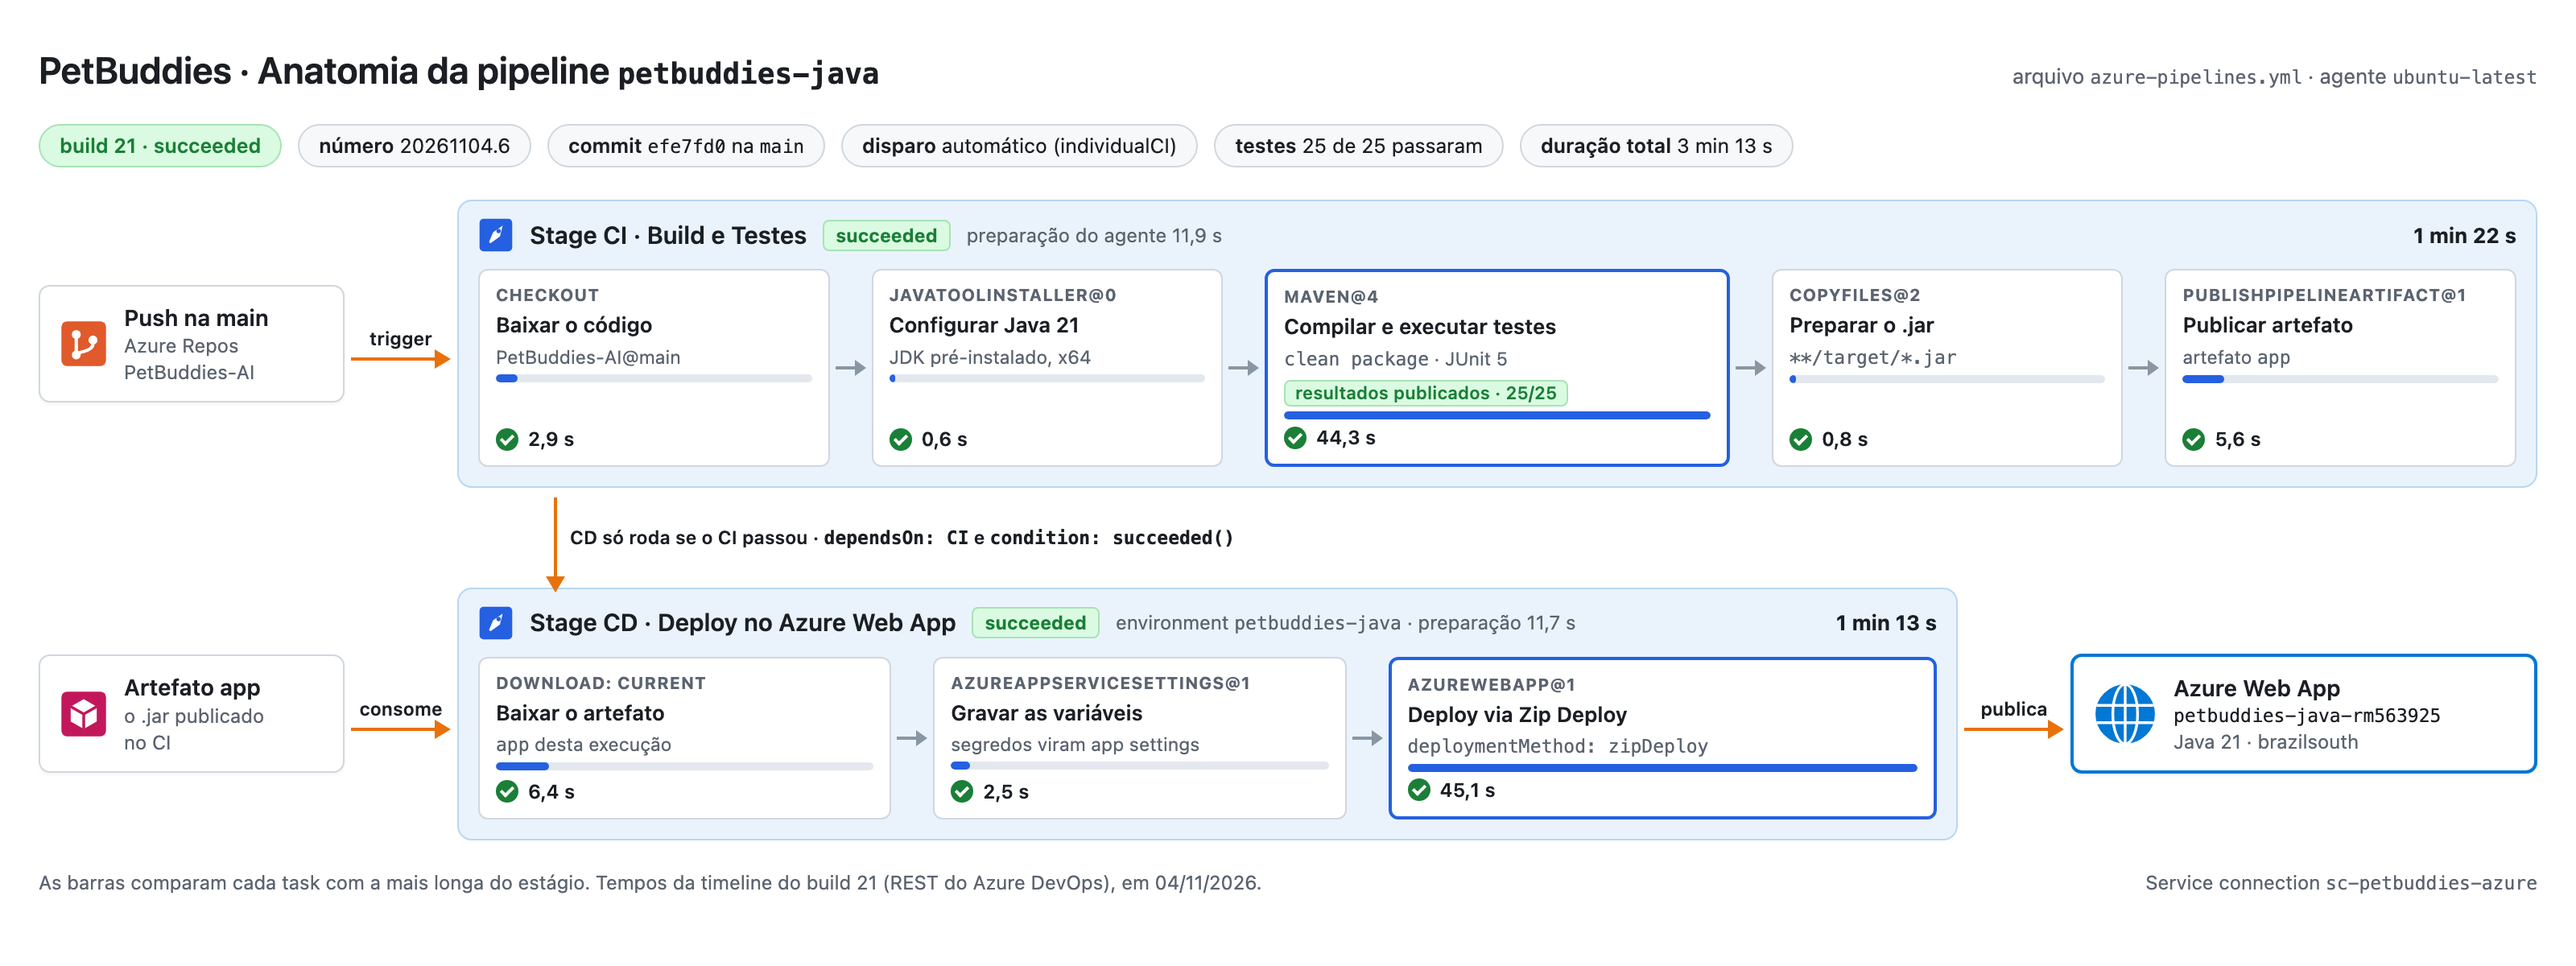
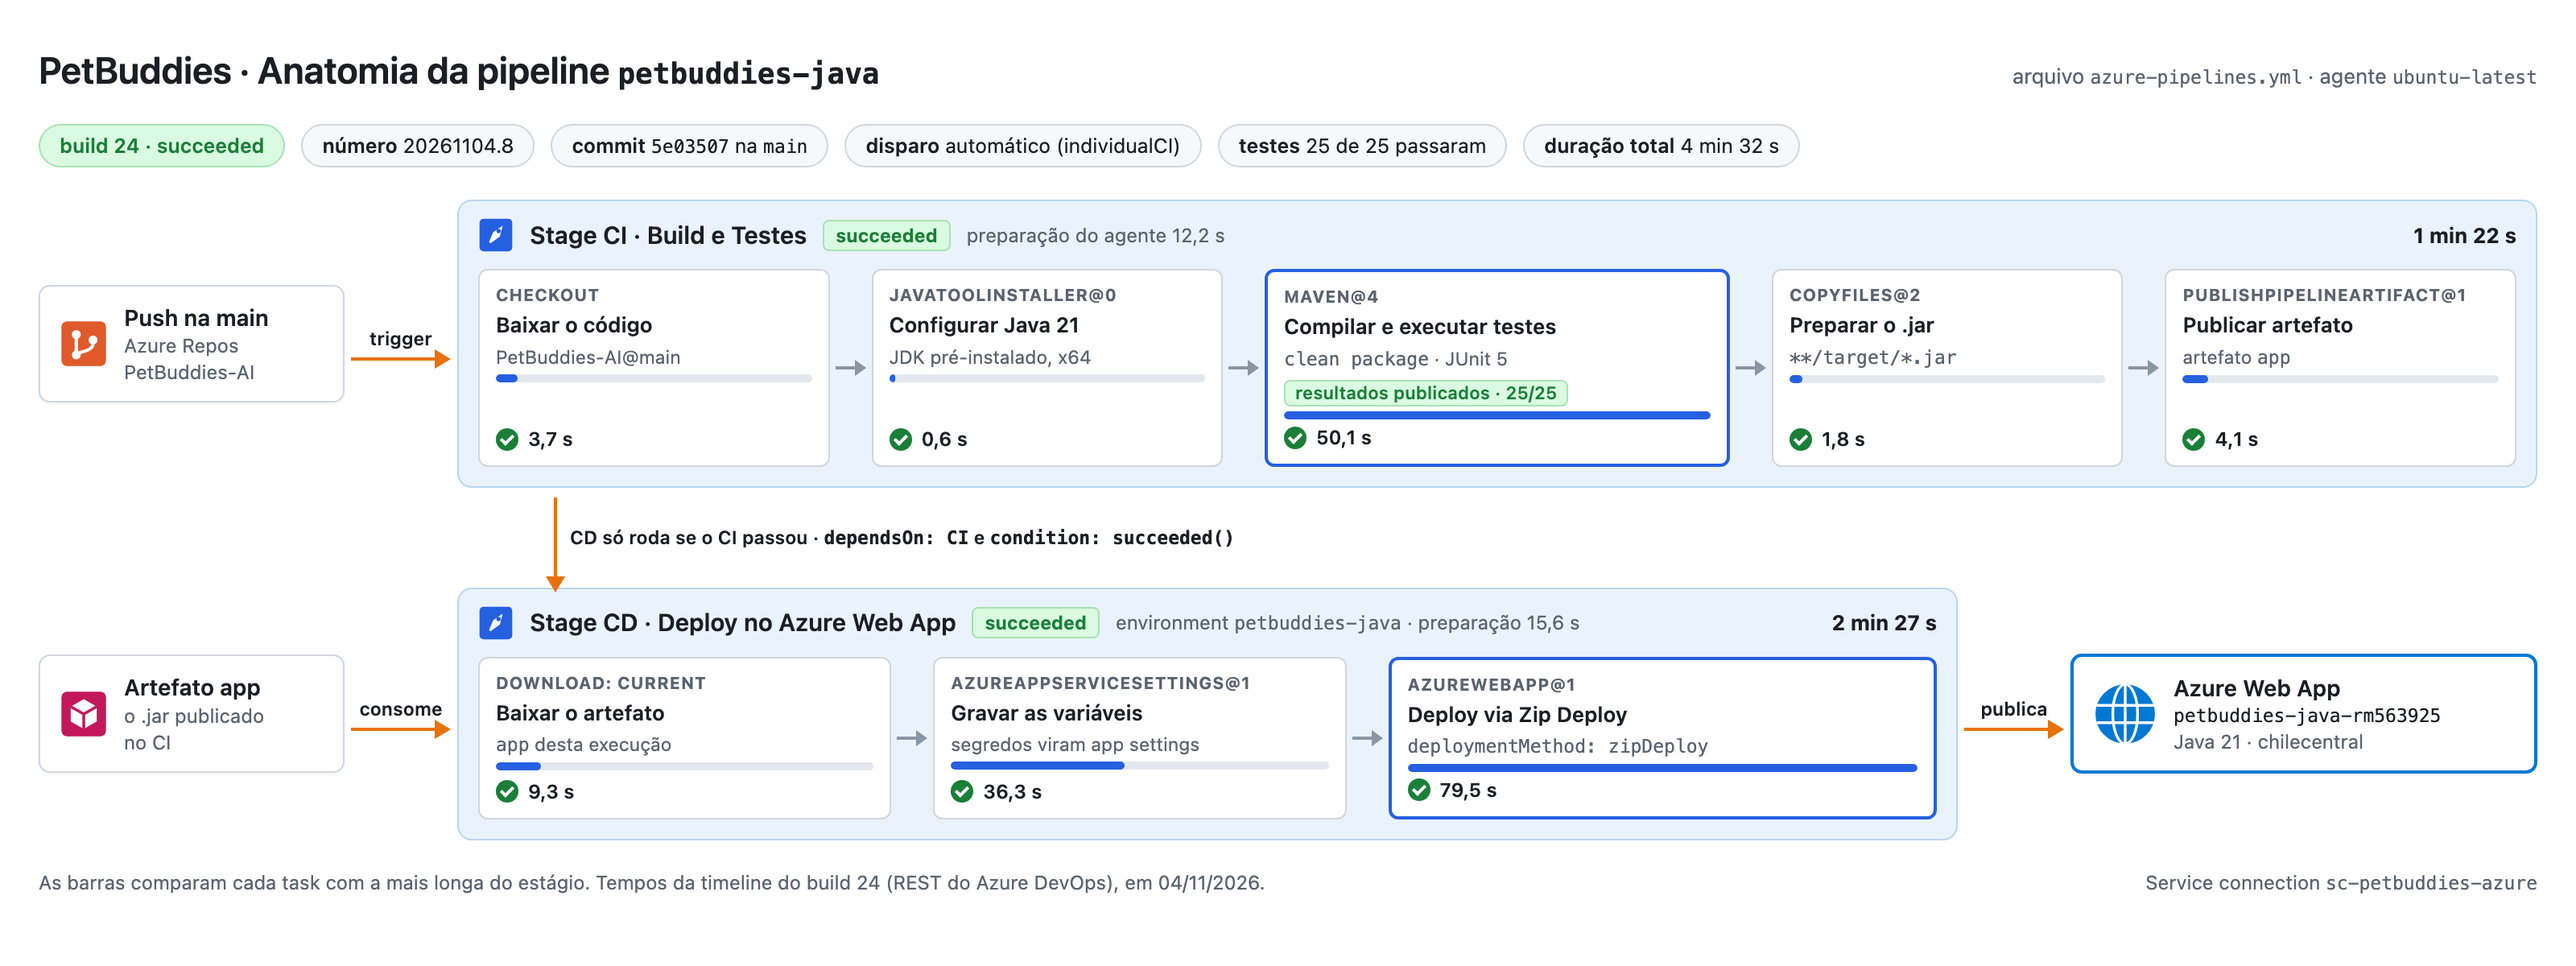
docs(readme): anatomia da pipeline com o build 24, primeiro deploy em Chile Central

diff --git a/docs/arquitetura/anatomia-pipeline.html b/docs/arquitetura/anatomia-pipeline.html
@@ -85,12 +85,12 @@
   </header>
 
   <div class="summary">
-    <span class="pill ok">build 21 · succeeded</span>
-    <span class="pill"><b>número</b> 20261104.6</span>
-    <span class="pill"><b>commit</b> <code>efe7fd0</code> na <code>main</code></span>
+    <span class="pill ok">build 24 · succeeded</span>
+    <span class="pill"><b>número</b> 20261104.8</span>
+    <span class="pill"><b>commit</b> <code>5e03507</code> na <code>main</code></span>
     <span class="pill"><b>disparo</b> automático (individualCI)</span>
     <span class="pill"><b>testes</b> 25 de 25 passaram</span>
-    <span class="pill"><b>duração total</b> 3 min 13 s</span>
+    <span class="pill"><b>duração total</b> 4 min 32 s</span>
   </div>
 
   <!-- CI -->
@@ -112,13 +112,13 @@
           <path d="M8 18l3-7 7-5-2 8-7 5z" fill="#fff"/><circle cx="15" cy="10" r="1.6" fill="#2560E0"/>
         </svg>
         <div class="t">Stage CI · Build e Testes</div><span class="badge">succeeded</span>
-        <div class="s">preparação do agente 11,9 s</div>
+        <div class="s">preparação do agente 12,2 s</div>
         <div class="time">1 min 22 s</div>
       </div>
       <div class="tasks">
         <div class="task">
           <div class="k">checkout</div><div class="t">Baixar o código</div><div class="s">PetBuddies-AI@main</div>
-          <div class="bar"><i style="width:7%"></i></div><div class="d"><span class="check"></span>2,9 s</div>
+          <div class="bar"><i style="width:7%"></i></div><div class="d"><span class="check"></span>3,7 s</div>
         </div>
         <div class="tarrow"></div>
         <div class="task">
@@ -129,17 +129,17 @@
         <div class="task main">
           <div class="k">Maven@4</div><div class="t">Compilar e executar testes</div><div class="s"><code>clean package</code> · JUnit 5</div>
           <span class="sub">resultados publicados · 25/25</span>
-          <div class="bar"><i style="width:100%"></i></div><div class="d"><span class="check"></span>44,3 s</div>
+          <div class="bar"><i style="width:100%"></i></div><div class="d"><span class="check"></span>50,1 s</div>
         </div>
         <div class="tarrow"></div>
         <div class="task">
           <div class="k">CopyFiles@2</div><div class="t">Preparar o .jar</div><div class="s"><code>**/target/*.jar</code></div>
-          <div class="bar"><i style="width:2%"></i></div><div class="d"><span class="check"></span>0,8 s</div>
+          <div class="bar"><i style="width:4%"></i></div><div class="d"><span class="check"></span>1,8 s</div>
         </div>
         <div class="tarrow"></div>
         <div class="task">
           <div class="k">PublishPipelineArtifact@1</div><div class="t">Publicar artefato</div><div class="s">artefato <code>app</code></div>
-          <div class="bar"><i style="width:13%"></i></div><div class="d"><span class="check"></span>5,6 s</div>
+          <div class="bar"><i style="width:8%"></i></div><div class="d"><span class="check"></span>4,1 s</div>
         </div>
       </div>
     </div>
@@ -170,23 +170,23 @@
           <path d="M8 18l3-7 7-5-2 8-7 5z" fill="#fff"/><circle cx="15" cy="10" r="1.6" fill="#2560E0"/>
         </svg>
         <div class="t">Stage CD · Deploy no Azure Web App</div><span class="badge">succeeded</span>
-        <div class="s">environment <code>petbuddies-java</code> · preparação 11,7 s</div>
-        <div class="time">1 min 13 s</div>
+        <div class="s">environment <code>petbuddies-java</code> · preparação 15,6 s</div>
+        <div class="time">2 min 27 s</div>
       </div>
       <div class="tasks">
         <div class="task">
           <div class="k">download: current</div><div class="t">Baixar o artefato</div><div class="s"><code>app</code> desta execução</div>
-          <div class="bar"><i style="width:14%"></i></div><div class="d"><span class="check"></span>6,4 s</div>
+          <div class="bar"><i style="width:12%"></i></div><div class="d"><span class="check"></span>9,3 s</div>
         </div>
         <div class="tarrow"></div>
         <div class="task">
           <div class="k">AzureAppServiceSettings@1</div><div class="t">Gravar as variáveis</div><div class="s">segredos viram app settings</div>
-          <div class="bar"><i style="width:5%"></i></div><div class="d"><span class="check"></span>2,5 s</div>
+          <div class="bar"><i style="width:46%"></i></div><div class="d"><span class="check"></span>36,3 s</div>
         </div>
         <div class="tarrow"></div>
         <div class="task main">
           <div class="k">AzureWebApp@1</div><div class="t">Deploy via Zip Deploy</div><div class="s"><code>deploymentMethod: zipDeploy</code></div>
-          <div class="bar"><i style="width:100%"></i></div><div class="d"><span class="check"></span>45,1 s</div>
+          <div class="bar"><i style="width:100%"></i></div><div class="d"><span class="check"></span>79,5 s</div>
         </div>
       </div>
     </div>
@@ -198,12 +198,12 @@
         <ellipse cx="26" cy="26" rx="10" ry="24" fill="none" stroke="#fff" stroke-width="2.2"/>
         <path d="M3 19h46M3 33h46M26 2v48" stroke="#fff" stroke-width="2.2"/>
       </svg>
-      <div><div class="t">Azure Web App</div><div class="n">petbuddies-java-rm563925</div><div class="s">Java 21 · brazilsouth</div></div>
+      <div><div class="t">Azure Web App</div><div class="n">petbuddies-java-rm563925</div><div class="s">Java 21 · chilecentral</div></div>
     </div>
   </div>
 
   <div class="foot">
-    <span>As barras comparam cada task com a mais longa do estágio. Tempos da timeline do build 21 (REST do Azure DevOps), em 04/11/2026.</span>
+    <span>As barras comparam cada task com a mais longa do estágio. Tempos da timeline do build 24 (REST do Azure DevOps), em 04/11/2026.</span>
     <span>Service connection <code>sc-petbuddies-azure</code></span>
   </div>
 </div>

diff --git a/README.md b/README.md
@@ -108,20 +108,20 @@ Private, com Git e o processo Scrum. O professor João Menk é membro com o nív
 ## 5. Pipelines CI/CD
 
 Arquivo: [`azure-pipelines.yml`](azure-pipelines.yml), no modo YAML. Gatilho: push na `main`, o que inclui o merge de
-PR. Service connection: `sc-petbuddies-azure` (Azure Resource Manager). A figura mostra a execução real do build 21,
+PR. Service connection: `sc-petbuddies-azure` (Azure Resource Manager). A figura mostra a execução real do build 24,
 de 04/11/2026, com o tempo de cada task.
 
-<img src="assets/figuras/anatomia-pipeline.png" alt="Anatomia da pipeline petbuddies-java no build 21: o push na main dispara o stage CI (checkout, Java 21, Maven com 25 testes, cópia do jar e publicação do artefato app, 1 min 22 s); o stage CD só roda se o CI passou e baixa o artefato, grava as variáveis no Web App e faz o Zip Deploy (1 min 13 s); total de 3 min 13 s">
+<img src="assets/figuras/anatomia-pipeline.png" alt="Anatomia da pipeline petbuddies-java no build 24: o push na main dispara o stage CI (checkout, Java 21, Maven com 25 testes, cópia do jar e publicação do artefato app, 1 min 22 s); o stage CD só roda se o CI passou e baixa o artefato, grava as variáveis no Web App e faz o Zip Deploy (2 min 27 s); total de 4 min 32 s">
 
-<sub>Fonte do desenho: <a href="docs/arquitetura/anatomia-pipeline.html"><code>docs/arquitetura/anatomia-pipeline.html</code></a> · tempos da timeline do build 21 na REST do Azure DevOps</sub>
+<sub>Fonte do desenho: <a href="docs/arquitetura/anatomia-pipeline.html"><code>docs/arquitetura/anatomia-pipeline.html</code></a> · tempos da timeline do build 24 na REST do Azure DevOps</sub>
 
-A mesma execução no Azure DevOps, com os stages CI e CD verdes:
+Uma execução de exemplo no Azure DevOps, com os stages CI e CD verdes:
 
-<img src="assets/prints/pipeline-build-21.png" alt="Execução do build 21 da pipeline petbuddies-java no Azure DevOps, com os stages CI - Build e Testes e CD - Deploy no Azure Web App concluídos com sucesso">
+<img src="assets/prints/pipeline-build-21.png" alt="Execução de exemplo da pipeline petbuddies-java no Azure DevOps, com os stages CI - Build e Testes e CD - Deploy no Azure Web App concluídos com sucesso">
 
-Cada task da execução, com o tempo dela: o Maven compila e roda os testes no CI, e o Zip Deploy publica o `.jar` no CD.
+Cada task dessa execução de exemplo, com o tempo dela: o Maven compila e roda os testes no CI, e o Zip Deploy publica o `.jar` no CD.
 
-<img src="assets/prints/pipeline-jobs.png" alt="Jobs do build 21 no Azure DevOps: o CI instala o Java 21, roda o Maven com os testes em 44 s, prepara e publica o artefato app; o CD baixa o artefato, grava as variáveis no Web App e faz o Zip Deploy em 45 s">
+<img src="assets/prints/pipeline-jobs.png" alt="Jobs de uma execução de exemplo no Azure DevOps: o CI instala o Java 21, roda o Maven com os testes em 44 s, prepara e publica o artefato app; o CD baixa o artefato, grava as variáveis no Web App e faz o Zip Deploy em 45 s">
 
 Os resultados dos testes estão na aba **Tests** da execução (ver a [seção 7](#7-testes)), e o artefato `app` está na aba
 **Artifacts**.
@@ -218,7 +218,7 @@ os mesmos testes no `clean package` e publica o resultado na aba **Tests**, com 
 | `ResumoPeriodoTest` | resumo do cuidado entre duas consultas: doses com check-in, dias distintos e período vazio | 4 |
 | **Total** | | **25** |
 
-<img src="assets/prints/pipeline-testes.png" alt="Aba Tests do build 21 no Azure DevOps, com os 25 testes da execução Testes de Código aprovados">
+<img src="assets/prints/pipeline-testes.png" alt="Aba Tests de uma execução de exemplo no Azure DevOps, com os 25 testes da execução Testes de Código aprovados">
 
 ---
 
